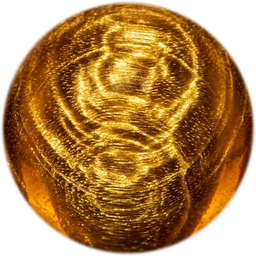
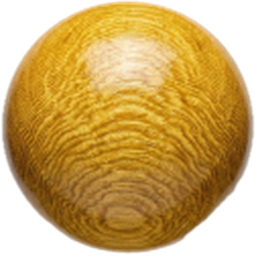
feat: sync authentic isolated wood beads from mutou assets into public/beads

diff --git a/sync_mutou_beads.py b/sync_mutou_beads.py
@@ -1,0 +1,34 @@
+import os
+from PIL import Image
+
+src_dir = r"c:\Users\myw\Desktop\newcode\zen\mutou\mutou"
+dest_dir = r"c:\Users\myw\Desktop\newcode\zen\public\beads"
+
+mapping = {
+    "GreenSandalwood.png": "green-sandalwood.png",
+    "GoldenThreadNanmu.png": "gold-phoebe.png",
+    "EbonyBogWood.png": "ebony-wood.png",
+    "Rosewood.png": "rosewood.png",
+    "CliffCypressBurl.png": "thuja-cypress.png",
+    "PeachWood.png": "peach-wood.png",
+}
+
+for src_name, dest_name in mapping.items():
+    fpath = os.path.join(src_dir, src_name)
+    if os.path.exists(fpath):
+        im = Image.open(fpath)
+        bbox = im.getbbox()
+        if bbox:
+            # Crop to the exact bead sphere
+            cropped = im.crop(bbox)
+            # Make it a square 256x256 image with transparent padding
+            max_dim = max(cropped.width, cropped.height)
+            square = Image.new("RGBA", (max_dim, max_dim), (0, 0, 0, 0))
+            offset_x = (max_dim - cropped.width) // 2
+            offset_y = (max_dim - cropped.height) // 2
+            square.paste(cropped, (offset_x, offset_y))
+            square = square.resize((256, 256), Image.Resampling.LANCZOS)
+            square.save(os.path.join(dest_dir, dest_name))
+            print(f"Mapped {src_name} -> {dest_name} (256x256 RGBA square OK)")
+
+print("All authentic wood bead assets from mutou/ synchronized cleanly!")
